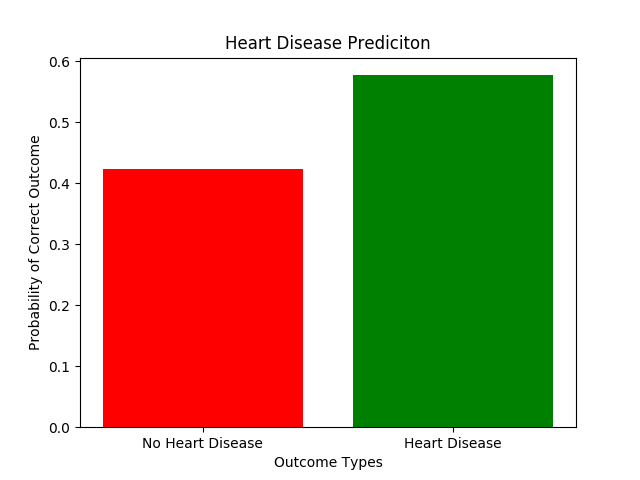
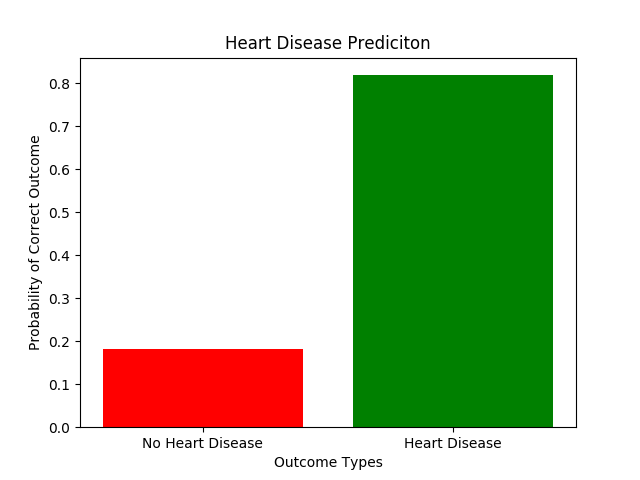
all done

diff --git a/Project/predictor.py b/Project/predictor.py
@@ -64,7 +64,7 @@ class Predictor():
     #Create a min max scaler to scale all input data to the same scale
     def createScaler(self):
         #Need to scale data to uniform [0,1] range
-        self.scaler = StandardScaler()
+        self.scaler = MinMaxScaler()
 
         #Remove label data from total data set
         xData = self.heartData.drop(['Target'], axis=1)
